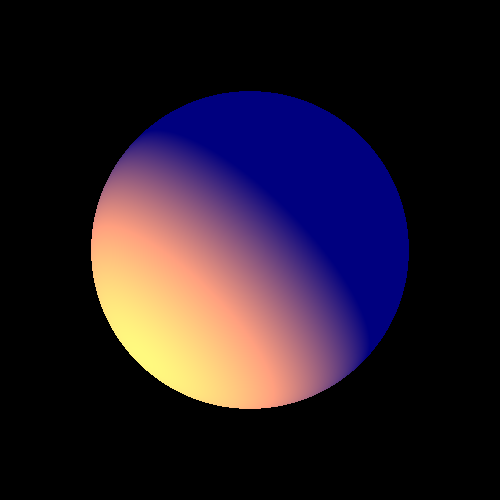
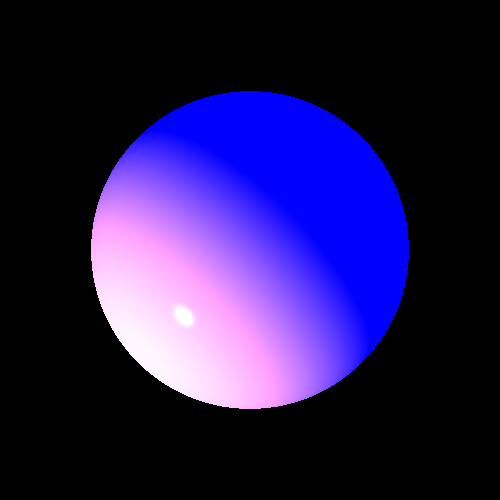
Fix part 7 section 1: correct shadow ray direction in SimpleRayTracer

diff --git a/src/unittests/renderer/ShadowTests.java b/src/unittests/renderer/ShadowTests.java
@@ -99,13 +99,15 @@ class ShadowTests {
                         new Point(-150, -150, -115),
                         new Point(150, -150, -135),
                         new Point(75, 75, -150))
-                        .setMaterial(new Material().setKs(0.8).setShininess(60)),
+                        .setEmission(new Color(20, 20, 20)) // צבע בסיס אפור כהה
+                        .setMaterial(new Material().setKd(0.5).setKs(0.8).setShininess(60)), // הוספת kD
 
                 new Triangle(
                         new Point(-150, -150, -115),
                         new Point(-70, 70, -140),
                         new Point(75, 75, -150))
-                        .setMaterial(new Material().setKs(0.8).setShininess(60)),
+                        .setEmission(new Color(20, 20, 20)) // צבע בסיס אפור כהה
+                        .setMaterial(new Material().setKd(0.5).setKs(0.8).setShininess(60)), // הוספת kD
 
                 new Sphere(new Point(0, 0, -11), 30d)
                         .setEmission(new Color(BLUE))
@@ -125,5 +127,79 @@ class ShadowTests {
                 .writeToImage("shadowTrianglesSphere");
     }
 
+    @Test
+    void debugSimpleShadowTest() {
+        scene.lights.clear();
+
+        // ריבוע שטוח על ציר Z
+        Triangle floor = new Triangle(
+                new Point(-100, -100, 0),
+                new Point(100, -100, 0),
+                new Point(0, 100, 0)
+        );
+        floor.setEmission(new Color(100, 100, 100));
+        floor.setMaterial(new Material().setKd(0.5).setKs(0.5).setShininess(30));
+
+
+        // כדור באוויר מעל הריבוע
+        Sphere ball = new Sphere(new Point(0, 0, 50), 30d);
+        ball.setEmission(new Color(0, 0, 255));
+        ball.setMaterial(new Material().setKd(0.5).setKs(0.5).setShininess(30));
+
+        // 👇 הוספה בשתי שורות
+        scene.geometries.add(floor);
+        scene.geometries.add(ball);
+
+        // אור שמכוון מהצד (כדי שייצר צל)
+        scene.lights.add(new SpotLight(new Color(500, 300, 0),
+                new Point(100, 100, 100), // מיקום האור
+                new Vector(-1, -1, -1))   // כיוון הקרן
+                .setKL(1E-5).setKQ(1.5E-7));
+
+        // אור אמביאנט חלש כדי שלא "ישטוף" הכל
+        scene.setAmbientLight(new AmbientLight(new Color(20, 20, 20)));
+
+        camera
+                .setResolution(300, 300)
+                .build()
+                .renderImage()
+                .writeToImage("debugSimpleShadowTest");
+    }
+
+
+    @Test
+    void simpleShadowDebugTest() {
+        scene.lights.clear();
+
+        // ריבוע שטוח
+        Triangle floor = new Triangle(
+                new Point(-50, -50, 0),
+                new Point(50, -50, 0),
+                new Point(0, 50, 0)
+        );
+        floor.setEmission(new Color(100, 100, 100));
+        floor.setMaterial(new Material().setKd(0.5).setKs(0.5).setShininess(30));
+
+        // כדור מעל הריבוע
+        Sphere ball = new Sphere(new Point(0, 0, 50), 20d);
+        ball.setEmission(new Color(0, 0, 255));
+        ball.setMaterial(new Material().setKd(0.5).setKs(0.5).setShininess(30));
+
+        scene.geometries.add(floor, ball);
+
+        // אור שמגיע מהכיוון (100, 100, 100)
+        scene.lights.add(new SpotLight(new Color(500, 300, 0),
+                new Point(100, 100, 100),
+                new Vector(-1, -1, -1))
+                .setKL(1E-5).setKQ(1.5E-7));
+
+        scene.setAmbientLight(new AmbientLight(new Color(20, 20, 20)));
+
+        camera
+                .setResolution(300, 300)
+                .build()
+                .renderImage()
+                .writeToImage("simpleShadowDebugTest");
+    }
 
 }

diff --git a/src/renderer/SimpleRayTracer.java b/src/renderer/SimpleRayTracer.java
@@ -61,25 +61,30 @@ public class SimpleRayTracer extends RayTracerBase {
         return color;
     }
 
-    private boolean unshaded(Intersection intersection, LightSource lightSource, Vector l, Vector n, double nl) {
-        Vector lightDirection = l.scale(-1);
-        Vector epsVector = n.scale(nl < 0 ? DELTA : -DELTA);
+    private boolean unshaded(Intersection intersection, LightSource lightSource) {
+        Vector lightDirection = intersection.l.normalize();
+        Vector epsVector = intersection.normal.scale(intersection.nl < 0 ? DELTA : -DELTA);
         Point newPoint = intersection.point.add(epsVector);
         Ray shadowRay = new Ray(newPoint, lightDirection);
+
         List<Intersection> intersections = scene.geometries.calculateIntersectionsHelper(shadowRay);
-
-        if (intersections == null) return true;
-
         double lightDistance = lightSource.getDistance(intersection.point);
 
-        for (Intersection inter : intersections) {
-            if (inter.geometry == intersection.geometry)
-                continue;
+        if (intersections == null) {
+            return true;
+        }
 
-            if (alignZero(inter.point.distance(intersection.point) - lightDistance) <= 0) {
-                if (inter.geometry.getMaterial().kT.lowerThan(MIN_CALC_COLOR_K)) {
-                    return false;
-                }
+        for (Intersection inter : intersections) {
+            if (inter.geometry == intersection.geometry) continue;
+
+            double interDist = inter.point.distance(intersection.point);
+            double transparency = inter.material != null ? inter.material.kT.getAverage() : 0;
+
+            System.out.printf("[SHADOW] Intersection with %s at distance %.2f, light distance %.2f, transparency %.2f%n",
+                    inter.geometry.getClass().getSimpleName(), interDist, lightDistance, transparency);
+
+            if (interDist <= lightDistance && transparency <= 0) {
+                return false;
             }
         }
 
@@ -124,20 +129,13 @@ public class SimpleRayTracer extends RayTracerBase {
         Material material = intersection.material;
 
         for (LightSource lightSource : scene.lights) {
-            Vector l = lightSource.getL(intersection.point);
-            double nl = alignZero(n.dotProduct(l));
-
-            if (nl * nv <= 0) {
-                continue;
-            }
-
-            if (!unshaded(intersection, lightSource, l, n, nl)) {
-                continue;
-            }
+            if (!setLightSource(intersection, lightSource)) continue;
+            if (!unshaded(intersection, lightSource)) continue;
 
             Color intensity = lightSource.getIntensity(intersection.point);
-            Color diffusive = calcDiffusive(material.kD, l, n, intensity);
-            Color specular = calcSpecular(material.kS, l, n, v, material.nShininess, intensity);
+            Color diffusive = calcDiffusive(material.kD, intersection.l, intersection.normal, intensity);
+            Color specular = calcSpecular(material.kS, intersection.l, intersection.normal,
+                    intersection.rayDir, material.nShininess, intensity);
             localColor = localColor.add(diffusive).add(specular);
         }
 

diff --git a/src/geometries/Polygon.java b/src/geometries/Polygon.java
@@ -118,7 +118,19 @@ public class Polygon extends Geometry {
 
       Vector v1 = vertices.get(vertices.size() - 1).subtract(point);
       Vector v2 = vertices.get(0).subtract(point);
-      Vector cross = v1.crossProduct(v2);
+
+      // בדיקה מוקדמת של וקטורים אפסיים
+      if (v1.length() == 0 || v2.length() == 0) {
+         return true; // הנקודה על קדקוד
+      }
+
+      Vector cross;
+      try {
+         cross = v1.crossProduct(v2);
+      } catch (IllegalArgumentException e) {
+         return false; // וקטורים מקבילים
+      }
+
       double sign = alignZero(n.dotProduct(cross));
 
       if (isZero(sign)) {
@@ -130,13 +142,16 @@ public class Polygon extends Geometry {
       for (int i = 1; i < vertices.size(); ++i) {
          v1 = v2;
          v2 = vertices.get(i).subtract(point);
+
+         // בדיקה מוקדמת של וקטורים אפסיים
          if (v1.length() == 0 || v2.length() == 0) {
-            return true;
+            return true; // הנקודה על קדקוד
          }
+
          try {
             cross = v1.crossProduct(v2);
          } catch (IllegalArgumentException e) {
-            return false;
+            return false; // וקטורים מקבילים
          }
 
          if (isZero(cross.length())) {
